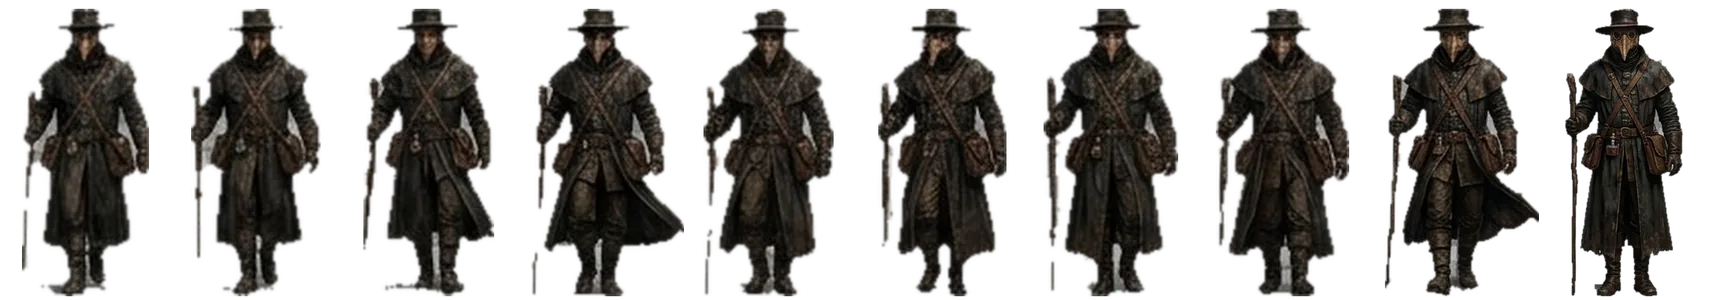
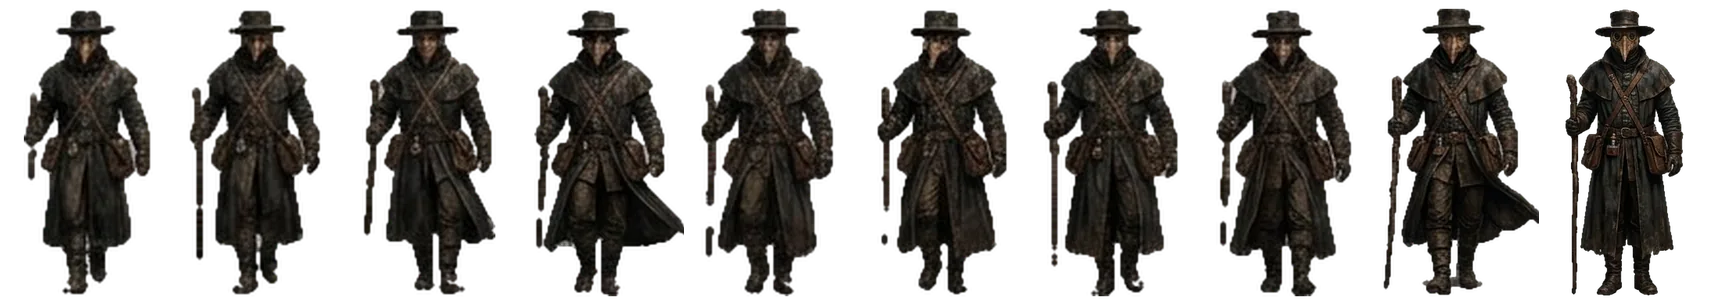
ajusta o Doutor e a abertura

diff --git a/assets/js/modules/abertura.js b/assets/js/modules/abertura.js
@@ -53,10 +53,10 @@ export function iniciarAbertura() {
     chuva.iniciar();
     agendar(250, () => raiz.classList.add('fase-1'));
     agendar(1500, relampago);
-    agendar(2500, () => { raiz.classList.add('fase-2'); caminhada.iniciar(5000); });
+    agendar(2500, () => { raiz.classList.add('fase-2'); caminhada.iniciar(8200); });
     agendar(3700, () => { relampago(); raiz.classList.add('fase-3'); });
-    agendar(6300, () => raiz.classList.add('fase-4'));
-    agendar(7800, () => { raiz.classList.add('fase-5'); if (raiz.contains(document.activeElement) || document.activeElement === document.body) botaoEntrar.focus({ preventScroll: true }); relampagosAmbientes(); });
+    agendar(8400, () => raiz.classList.add('fase-4'));
+    agendar(10800, () => { raiz.classList.add('fase-5'); if (raiz.contains(document.activeElement) || document.activeElement === document.body) botaoEntrar.focus({ preventScroll: true }); relampagosAmbientes(); });
   }
 
   function fechar({ animar = true } = {}) {
@@ -134,7 +134,7 @@ function criarChuva(tela) {
 // dá o último passo e para de frente, com o cajado no chão (pose final, sem repetir).
 const PONTO_DE_FUGA = { x: 760, y: 445, largura: 1584, altura: 672 }; // em cidade-noite.webp
 const QUADROS = 10, CICLO = 8, PASSO_FINAL = 8, POSE_FINAL = 9;
-const PERTO = 1, LONGE = 10, QUADROS_POR_UNIDADE = 5;
+const PERTO = 1, LONGE = 10, QUADROS_POR_UNIDADE = 4.4;
 
 function criarCaminhada(doutor, cidade, raiz) {
   const folha = doutor?.querySelector('.abertura__quadro');

diff --git a/scripts/recortar-doutor.py b/scripts/recortar-doutor.py
@@ -1,0 +1,73 @@
+# Recorte do Doutor: reconstrói o xadrez "assado" de cada célula (período e fase) e remove
+# só os pixels que coincidem com ele — assim brilhos cinzentos do chapéu/capa são preservados.
+import sys, numpy as np
+from PIL import Image
+from scipy import ndimage as nd
+src, out = sys.argv[1], sys.argv[2]
+im = np.asarray(Image.open(src).convert('RGB')).astype(float)
+C=[0,256,515,803,1098]; R=[0,152,310,459,610,768]
+cells=[]
+for r in range(5):
+    for c in range(4): cells.append((C[c],R[r],(C+[1408])[c+1],R[r+1]))
+    if r==0: cells.append((1098,0,1408,152))
+    if r==1: cells.append((1098,152,1408,384))
+cells.append((1098,384,1408,768))
+names=['01','02','03','04','04b','05','06','07','08','08b','09','10','11','12','13','14','15','16','17','18','19','20','20b']
+
+def onda(n, P, f):
+    return np.where(((np.arange(n)-f)/P)%2<1,1.0,-1.0)
+
+def ajustar(perfis):
+    # perfis: lista de vetores (média 0); acha período/fase da onda quadrada
+    melhor=(-1,None)
+    n=len(perfis[0])
+    for P in np.arange(11.6,11.86,0.01):
+        for f in np.arange(0,2*P,0.25):
+            w=onda(n,P,f)
+            s=sum(abs((p*w).sum()) for p in perfis)
+            if s>melhor[0]: melhor=(s,(P,f))
+    return melhor[1]
+
+for nome,(x0,y0,x1,y1) in zip(names,cells):
+    p=im[y0+3:y1-3,x0+3:x1-3]; h,w,_=p.shape
+    L=p.mean(2); sat=p.max(2)-p.min(2)
+    borda=np.zeros((h,w),bool); borda[-12:]=True; borda[:,-10:]=True; borda[:,:6]=True
+    vb=L[borda&(sat<12)]
+    claro=np.median(vb[vb>150]); escuro=np.median(vb[vb<=150])
+    cand=(sat<16)&(L>escuro-22)&(L<claro+30)
+    lab,_=nd.label(cand)
+    edge=set(np.unique(np.concatenate([lab[0],lab[-1],lab[:,0],lab[:,-1]])))-{0}
+    bg=np.isin(lab,list(edge))
+    # vãos fechados (entre braço, cajado e corpo): só se parecem xadrez (os dois tons presentes)
+    for i in range(1,lab.max()+1):
+        if i in edge: continue
+        v=L[lab==i]
+        if v.size<20: continue
+        pc=(np.abs(v-claro)<12).mean(); pe=(np.abs(v-escuro)<12).mean()
+        if (pc+pe>0.55 and (min(pc,pe)>0.12 or v.size<90)) or v.mean()>112: bg|=lab==i
+    # sombra cinza assada embaixo dos pés
+    base=np.zeros((h,w),bool); base[int(h*0.9):]=True
+    bg|=base&(sat<14)&(L>60)&nd.binary_dilation(bg,iterations=6)
+    fg=nd.binary_opening(~bg,iterations=1)
+    lab2,k=nd.label(fg)
+    sizes=nd.sum(fg,lab2,range(1,k+1))
+    big=np.argmax(sizes)+1
+    keep=lab2==big
+    vizinho=nd.binary_dilation(keep,iterations=7)
+    for i,sz in enumerate(sizes,1):
+        if i!=big and sz>8 and (vizinho&(lab2==i)).any(): keep|=lab2==i
+    buracos=nd.binary_fill_holes(keep)&~keep
+    lb,nb=nd.label(buracos)
+    for i in range(1,nb+1):
+        rr=lb==i
+        if rr.sum()<10: keep|=rr
+    alfa=nd.gaussian_filter(keep.astype(float),0.7)
+    alfa=np.clip((alfa-0.2)/0.6,0,1)
+    interior=nd.binary_erosion(keep,iterations=1)
+    _,(iy,ix)=nd.distance_transform_edt(~interior,return_indices=True)
+    rgb=p.copy(); b=alfa<0.999
+    rgb[b]=p[iy[b],ix[b]]
+    rgba=Image.fromarray(rgb.astype('uint8')).convert('RGBA'); rgba.putalpha(Image.fromarray((alfa*255).astype('uint8')))
+    ys,xs=np.where(alfa>0.02)
+    rgba.crop((xs.min(),ys.min(),xs.max()+1,ys.max()+1)).save(f'{out}/{nome}.png')
+    print(nome,int(claro),int(escuro))

diff --git a/scripts/montar-doutor.py b/scripts/montar-doutor.py
@@ -1,0 +1,24 @@
+import sys, numpy as np
+from PIL import Image
+d, dest = sys.argv[1], sys.argv[2]
+ordem=['05','06','07','08','17','18','19','20','08b','20b']  # 8 de caminhada + passo final + pose parada
+W,H,FIG=272,476,456
+quadros=[]
+for n in ordem:
+    im=Image.open(f'{d}/{n}.png')
+    s=FIG/im.height
+    im=im.resize((max(1,round(im.width*s)),FIG),Image.LANCZOS)
+    a=np.asarray(im)[:,:,3]
+    top=a[:int(FIG*0.14)]  # chapéu/cabeça: alinha o eixo do corpo
+    xs=np.where(top>128)[1]; cx=xs.mean()
+    c=Image.new('RGBA',(W,H),(0,0,0,0))
+    c.alpha_composite(im,(int(round(W/2-cx)),H-FIG-6)) if im.width<=W else None
+    if im.width>W:
+        x=int(round(W/2-cx)); c.paste(im,(x,H-FIG-6),im)
+    quadros.append(c)
+for nome,alt in [('doutor-andando',H),('doutor-andando-pequeno',300)]:
+    w=round(W*alt/H)
+    tira=Image.new('RGBA',(w*len(quadros),alt),(0,0,0,0))
+    for i,q in enumerate(quadros): tira.paste(q.resize((w,alt),Image.LANCZOS),(i*w,0))
+    tira.save(f'{dest}/{nome}.webp',quality=82,method=6)
+    print(nome,tira.size)
